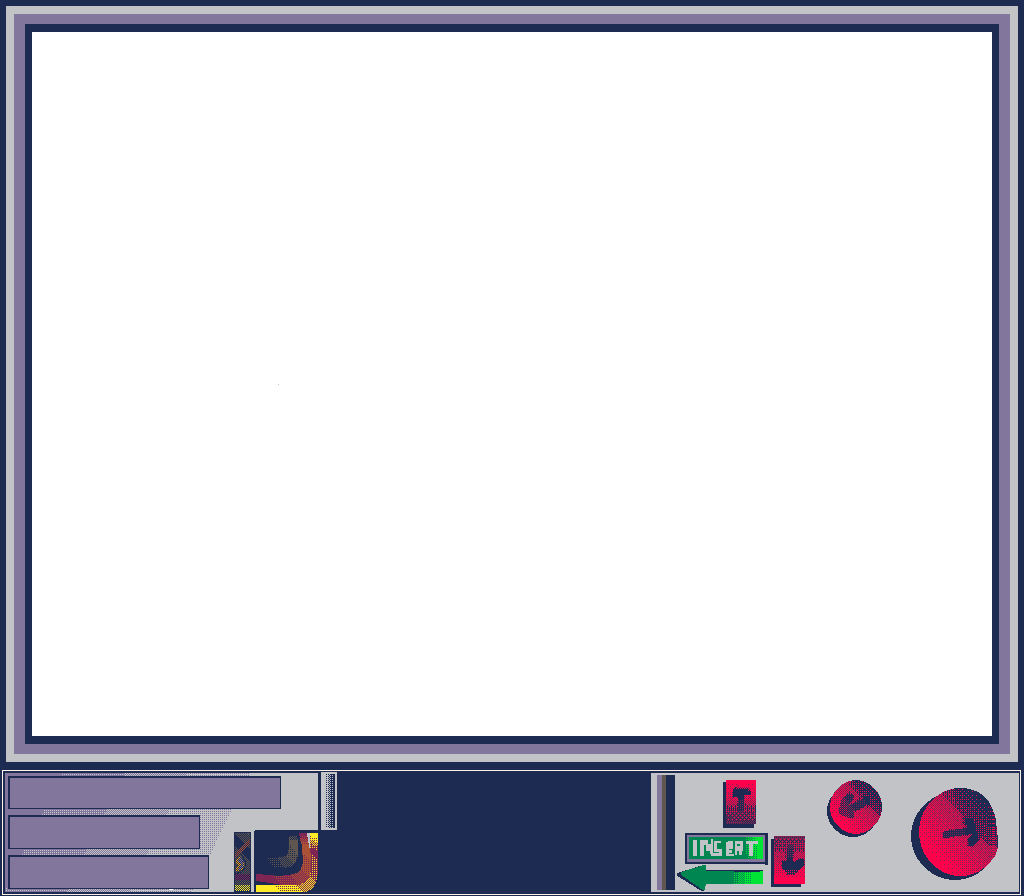
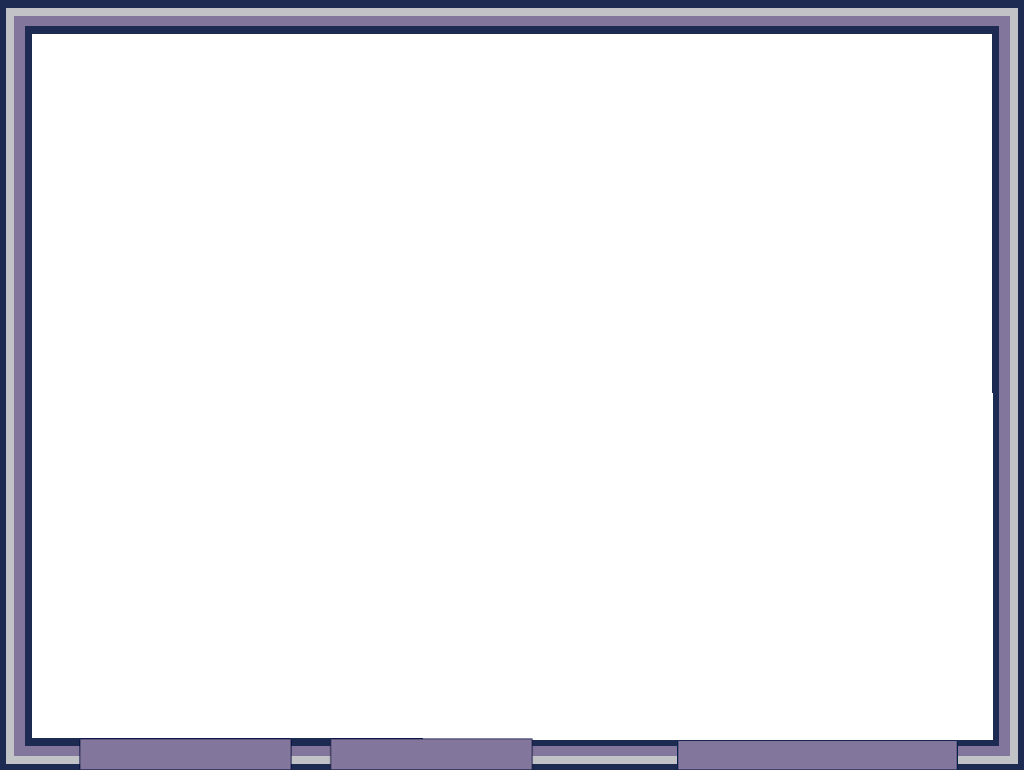
modernising update + resize

Changed region(s): [[0.0, 0.8104, 1.0, 1.0], [0.0, 0.0, 1.0, 0.0623]]

diff --git a/src/defs.h b/src/defs.h
@@ -8,46 +8,34 @@ Copyright (C) 2023-2024 Asephri.net. All rights reserved.
 #define MAX(a, b) (((a) > (b)) ? (a) : (b))
 
 
-/* Highscores */
 #define NUM_HIGHSCORES 5
 
-/* Text Array Limit.*/
 #define STRNCPY(dest, src, n) \
 strncpy(dest, src, n); \
 dest[n - 1] = '\0'
 
-/* Screen Resolution. */
 #define SCREEN_WIDTH  1024
-#define SCREEN_HEIGHT 768 + HUD_HEIGHT
-
-/* Max size for a character string. */
+#define SCREEN_HEIGHT 736 + HUD_HEIGHT
 #define MAX_SCORE_NAME_LENGTH 8
 #define MAX_NAME_LENGTH 8
 #define MAX_LINE_LENGTH 1024
 
-/* Frames per second. */
 #define FPS 60
 
-/* Player Defines. */
 #define PLAYER_HEALTH 25
 #define PLAYER_SPEED 4
 #define PLAYER_BULLET_SPEED 8
 
-/* Starfield Defines. */
 #define MAX_STARS 500
 
-// Max keyboard keys
 #define MAX_KEYBOARD_KEYS 350
 
-/* Entity Team behavior Define. */
 #define SIDE_PLAYER 0
 #define SIDE_ENEMY 1
 
-// Text width and height.
 #define GLYPH_HEIGHT 28
 #define GLYPH_WIDTH  18
 
-/* Amount of Sound channels available. */
 #define MAX_SND_CHANNELS 8
 
 enum ChannelType
@@ -75,29 +63,28 @@ enum
 	TEXT_RIGHT	
 };
 
-/* Hud Resolution. */
 #define HUD_WIDTH 1024
-#define HUD_HEIGHT 128
-/* Hudscreen Bounds. */
+#define HUD_HEIGHT 32
+
 #define HUDSCREEN_WIDTH 928
 #define HUDSCREEN_HEIGHT 672
 #define HUDSCREEN_X 32
 #define HUDSCREEN_Y 32
 #define SCREEN_BOUNDS 16
-/* Hud Text. */
-#define HUD_HEALTH_POS_HEIGHT SCREEN_HEIGHT-35
-#define HUD_HEALTH_POS_WIDTH 10
-#define HUD_SCORE_POS_HEIGHT SCREEN_HEIGHT-75
-#define HUD_SCORE_POS_WIDTH 10
-#define HUD_HIGHSCORE_POS_HEIGHT SCREEN_HEIGHT-115
-#define HUD_HIGHSCORE_POS_WIDTH 10
-/* Bullet CoolDown Timer on Hud. */
+
+#define HUD_HEALTH_POS_HEIGHT SCREEN_HEIGHT-28
+#define HUD_HEALTH_POS_WIDTH 85
+#define HUD_SCORE_POS_HEIGHT SCREEN_HEIGHT-28
+#define HUD_SCORE_POS_WIDTH 341
+#define HUD_HIGHSCORE_POS_HEIGHT SCREEN_HEIGHT-28
+#define HUD_HIGHSCORE_POS_WIDTH 682
+
 #define PLAYER_FIRE_COOLDOWN 30
 #define PLAYER_RELOAD_TIME 16
 #define PLAYER_PUSHBACK 1
-/* Alien defines. */
+
 #define ENEMY_BULLET_SPEED 18
 #define ENEMY_SPEED 2
 #define ENEMY_SPAWN_TIME 30
-// Player firing
+
 #define AMMUNITION 16

diff --git a/src/background.c b/src/background.c
@@ -18,7 +18,7 @@ void initStars(void)
     for (i = 0; i < MAX_STARS; i++)
     {
         stars[i].x = rand() % SCREEN_WIDTH;
-        stars[i].y = rand() % (SCREEN_HEIGHT - HUD_HEIGHT);
+        stars[i].y = rand() % (SCREEN_HEIGHT);
         stars[i].speed = 1 + rand() % 8;
     }
     //printf("Stars initialized.\n");
@@ -90,7 +90,7 @@ void drawBackground(void)
         dest.x = x;
         dest.y = 0;
         dest.w = SCREEN_WIDTH;
-        dest.h = (SCREEN_HEIGHT - HUD_HEIGHT);
+        dest.h = SCREEN_HEIGHT;
 
         SDL_RenderCopy(app.renderer, background, NULL, &dest);
     }

diff --git a/src/draw.c b/src/draw.c
@@ -69,7 +69,7 @@ SDL_Texture *loadTexture(char *filename)
     if (texture == NULL)
     {
         SDL_LogMessage(SDL_LOG_CATEGORY_APPLICATION, SDL_LOG_PRIORITY_INFO, "Loading %s", filename);
-        texture = IMG_LoadTexture(app.renderer, filename);.
+        texture = IMG_LoadTexture(app.renderer, filename);
         if (texture == NULL)
         {
             SDL_LogError(SDL_LOG_CATEGORY_APPLICATION, "Failed to load texture: %s\n", SDL_GetError());

diff --git a/src/draw.h b/src/draw.h
@@ -2,10 +2,8 @@
 Copyright (C) 2023-2025 Asephri.net. All rights reserved.
 */
 
-/* Functions. */
 void prepareScene(void);
 void presentScene(void);
 SDL_Texture *loadTexture(char *filename);
 void blit(SDL_Texture *texture, int x, int y);
 void blitRect(SDL_Texture *texture, SDL_Rect *src, int x, int y);
-/* ---------- */

diff --git a/src/main.c b/src/main.c
@@ -26,7 +26,7 @@ int main(int argc, char *argv[])
 
 	printf("voidFighter - New Session\n");
 	
-	printf("Copyright (C) 2023-2024 Asephri. All rights reserved.\n");
+	printf("Copyright (C) 2023-2025 Asephri.net. All rights reserved.\n");
 
 	printf("consolelog.txt\n");
 	

diff --git a/src/hud.c b/src/hud.c
@@ -99,7 +99,7 @@ void drawHudEffects(void)
     SDL_Rect dest;
     dest.x = 0;
     dest.y = SCREEN_HEIGHT - HUD_HEIGHT;
-    dest.w = 320;
+    dest.w = SCREEN_WIDTH;
     dest.h = 128;
 
     SDL_RenderCopy(app.renderer, hudeffects, NULL, &dest);
